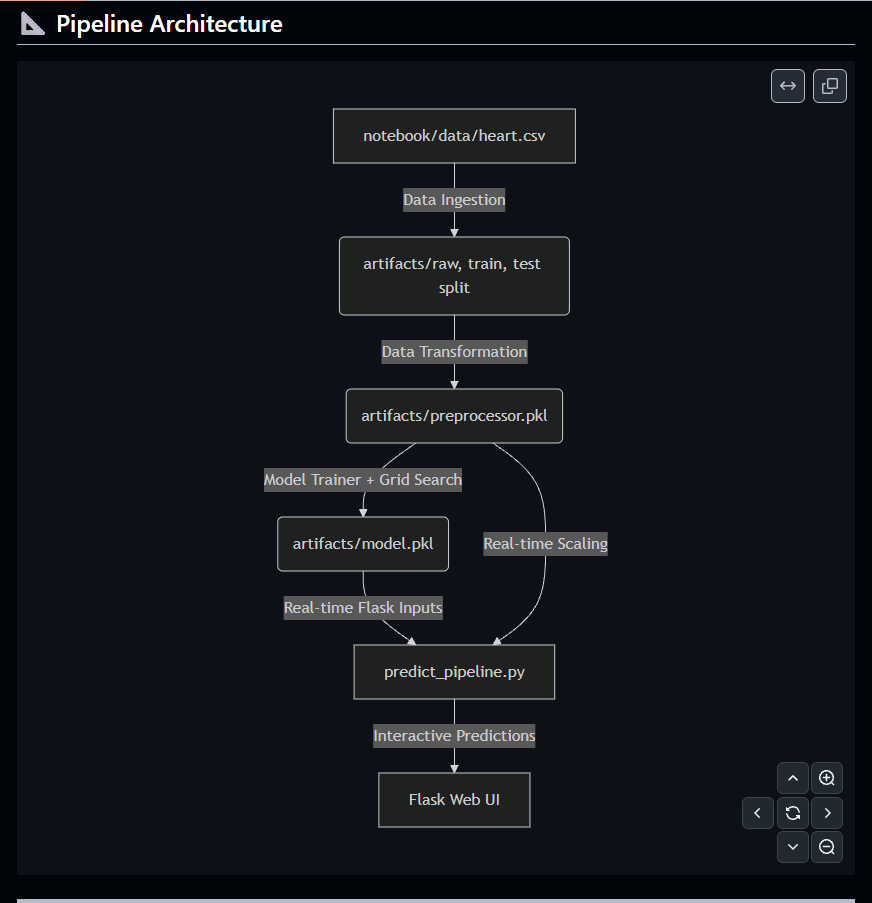
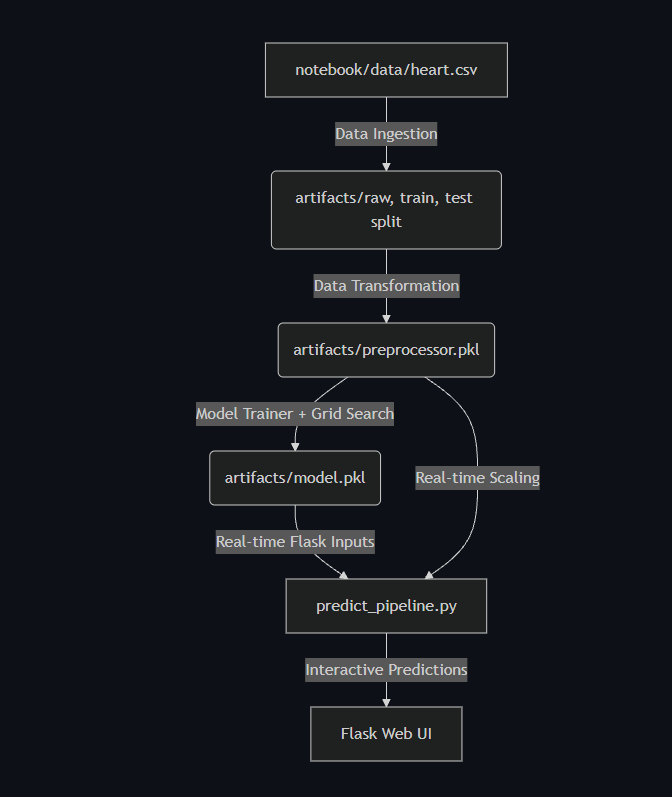
Update pipeline architecture diagram to clean, cropped version

diff --git a/README.md b/README.md
@@ -4,7 +4,7 @@ A production-grade machine learning project designed with a modular codebase arc
 
 ---
 
-## 🚀 Features
+## Features
 
 - **Modular Codebase Architecture:** Follows industry-standard practices, separating components for Ingestion, Transformation, Training, and Prediction.
 - **Robust Preprocessing Pipeline:** Handled automatically via `ColumnTransformer` (incorporating `SimpleImputer` for handling missing values and `StandardScaler` for normalization).
@@ -14,7 +14,7 @@ A production-grade machine learning project designed with a modular codebase arc
 
 ---
 
-## 📐 Pipeline Architecture
+## Pipeline Architecture
 
 ![Pipeline Architecture](docs/pipeline_architecture.png)
 
@@ -61,7 +61,7 @@ A production-grade machine learning project designed with a modular codebase arc
 
 ---
 
-## 🫀 Clinical Parameters & Input Details
+## Clinical Parameters & Input Details
 
 The prediction model relies on the following 13 clinical inputs to determine the risk score:
 